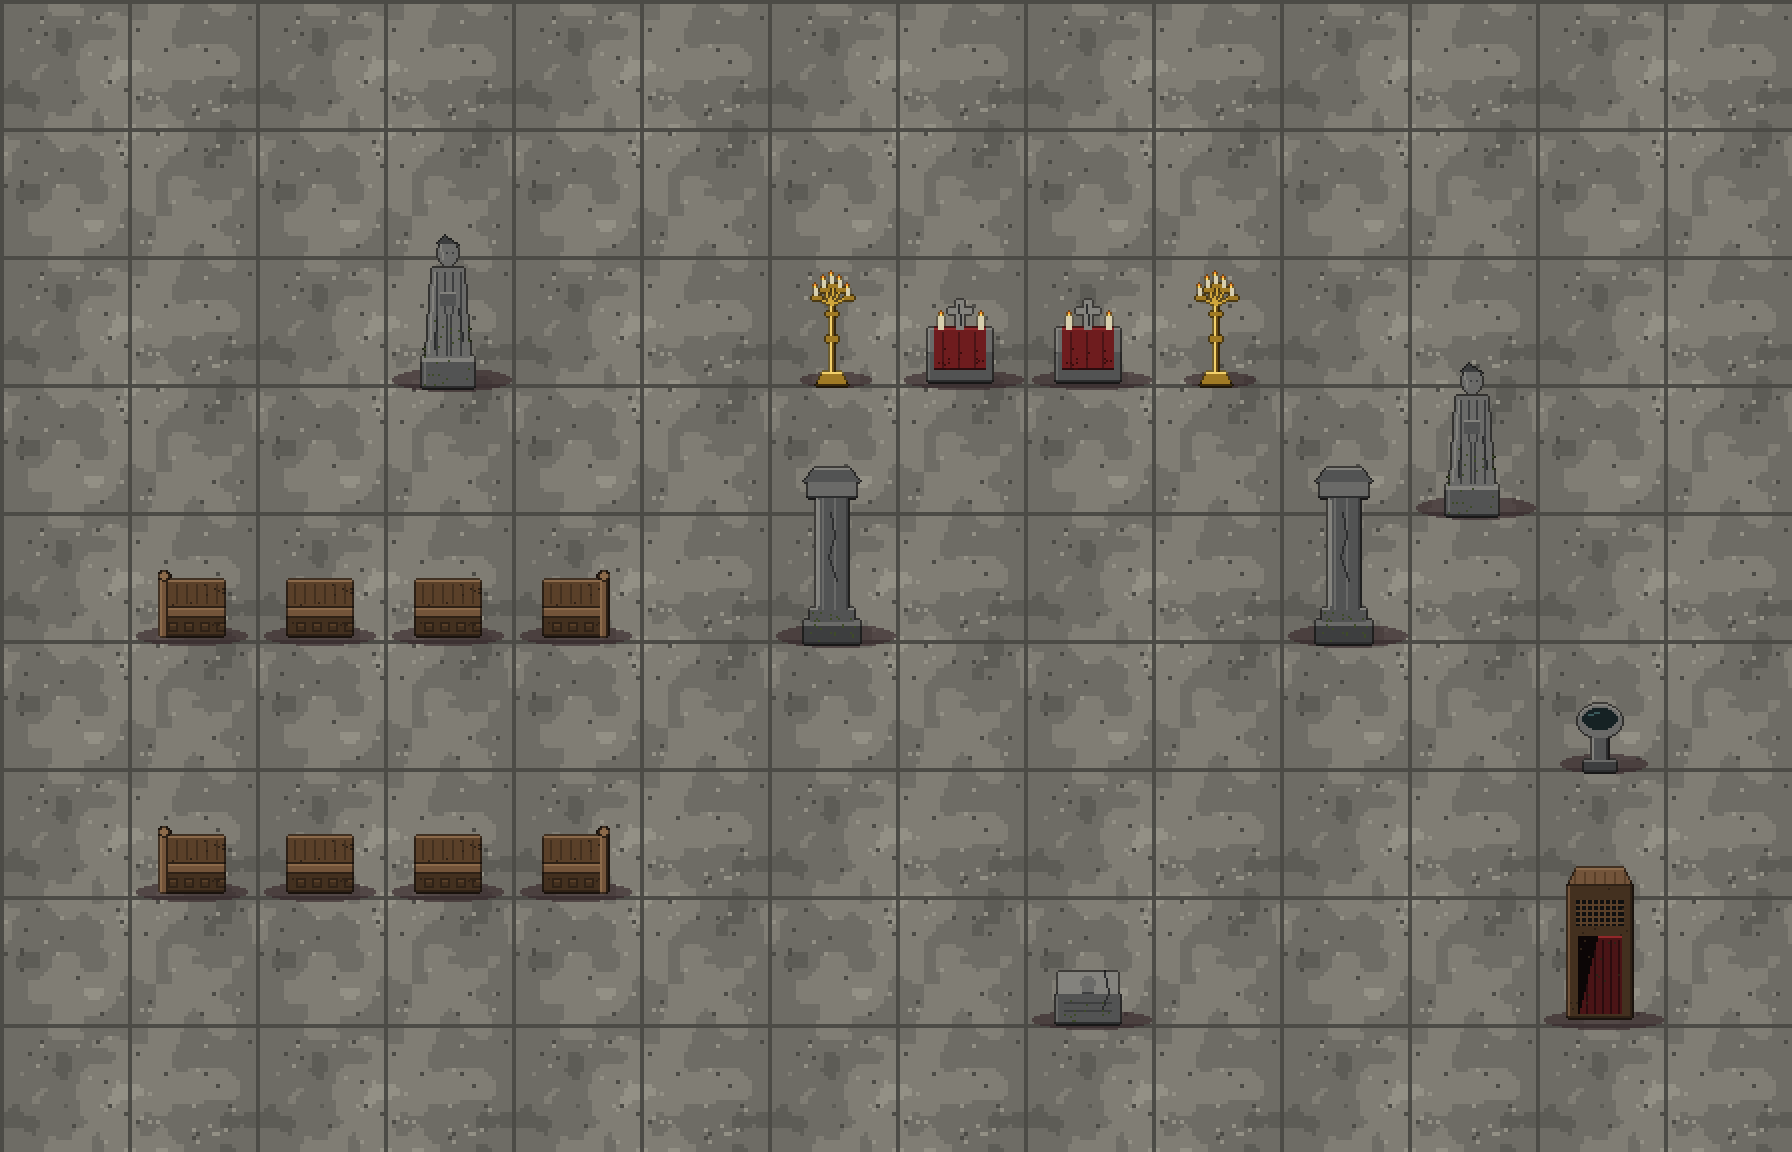
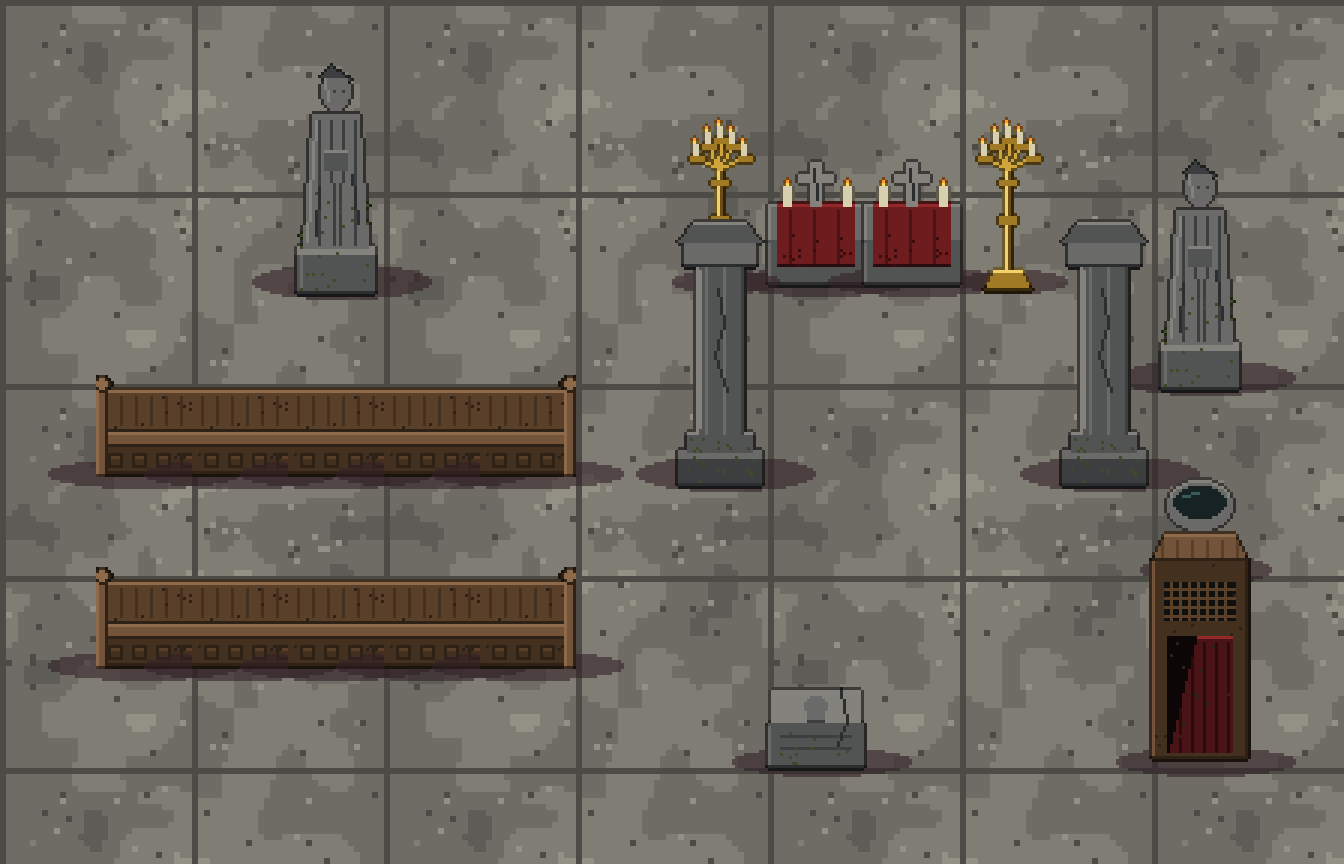
Pews join into one continuous bench; preview at the true tile scale
Claude-Session: https://claude.ai/code/session_01Jpd5tdDJTR7BVueAYV1KDM

diff --git a/ArtSource/world/props_cathedral.py b/ArtSource/world/props_cathedral.py
@@ -14,6 +14,22 @@ def grain(d, x0, y0, x1, y1, col, r, n=14):
     for _ in range(n): x = r.randint(x0, x1); y = r.randint(y0, y1); d.point((x, y), fill=col)
 
 # ---------------------------------------------------------------- pews: dark wood, a high back, a seat, a plinth; one pew spans three tiles, ends carry a carved post
+def _outline_pew(im, left, right):
+    """the selective outline, but NOT on the sides that join the next pew tile (so a row reads as one bench); no side padding there either."""
+    import numpy as np
+    a = np.array(im).astype(np.int32); H, W = a.shape[:2]; al = a[..., 3] > 0; o = a.copy()
+    dirs = [(0, -1), (0, 1)] + ([(-1, 0)] if left else []) + ([(1, 0)] if right else [])
+    for y in range(H):
+        for x in range(W):
+            if al[y, x]: continue
+            best = None
+            for dx, dy in dirs:
+                nx, ny = x + dx, y + dy
+                if 0 <= nx < W and 0 <= ny < H and al[ny, nx]:
+                    c = a[ny, nx]; lum = c[0] + c[1] + c[2]
+                    if best is None or lum < best[0]: best = (lum, c)
+            if best is not None: c = best[1]; o[y, x] = (int(c[0] * 0.42) + 6, int(c[1] * 0.42) + 5, int(c[2] * 0.42) + 4, 255)
+    return Image.fromarray(o.astype(np.uint8), 'RGBA')
 def _pew(seed, end):
     r = rng(seed); im = blank(32, 36); d = ImageDraw.Draw(im); W = WOOD
     d.rectangle([0, 4, 31, 17], fill=W[2]); d.line([(0, 4), (31, 4)], fill=W[4]); d.line([(0, 17), (31, 17)], fill=W[0])         # the back rest, seen from the front of the row
@@ -26,7 +42,10 @@ def _pew(seed, end):
         x = 0 if end == 'l' else 28
         d.rectangle([x, 0, x + 3, 31], fill=W[3]); d.line([(x, 0), (x, 31)], fill=W[4]); d.line([(x + 3, 2), (x + 3, 31)], fill=W[0])
         d.ellipse([x - 1, -1, x + 4, 4], fill=W[4], outline=W[0])
-    return X2(im, (16, 34), (28, 5, 0, -1))
+    pad_l = 1 if end == 'l' else 0; pad_r = 1 if end == 'r' else 0
+    big = blank(im.width + pad_l + pad_r, im.height + 2); big.alpha_composite(im, (pad_l, 1))
+    big = _outline_pew(big, end == 'l', end == 'r')
+    p = Prop(big, (16 + pad_l, 35), (32, 5, 0, -1), False, scale=2); return p
 def pew_l(seed): return _pew(seed, 'l')
 def pew_m(seed): return _pew(seed, None)
 def pew_r(seed): return _pew(seed, 'r')
@@ -122,31 +141,23 @@ NEW = {"pew_l": pew_l, "pew_m": pew_m, "pew_r": pew_r, "column": column, "altar"
 VARIANTS = {k: 1 for k in NEW}
 
 if __name__ == "__main__":
-    # preview: a slice of the nave on a stone floor with a character for scale (3x): a row of pews, two columns, the altar, candelabra, statue, font, confessional, tomb
+    # preview: a slice of the nave on a stone floor with a character for scale; a TILE IS 16 MAP PX (32 sprite px), drawn at 4x
     import ground, os, sys
     sys.path.insert(0, os.path.dirname(os.path.abspath(__file__)))
-    W_, H_ = 32 * 14, 32 * 9
+    T = 16; W_, H_ = T * 14, T * 9
     bg = blank(W_, H_); g = ground.GROUNDS["concrete"](3)
     for ty in range(0, H_, g.height):
         for tx in range(0, W_, g.width): bg.paste(g, (tx, ty))
+    big = bg.resize((W_ * 2, H_ * 2), Image.NEAREST)               # 1 map px = 2 sprite px
     items = []
-    def at(name, tx, ty): items.append((ty * 32 + 31, NEW[name](1000), tx * 32 + 16, ty * 32 + 32))
-    for i, nm in enumerate(['pew_l', 'pew_m', 'pew_m', 'pew_r']): at(nm, 1 + i, 6)
-    for i, nm in enumerate(['pew_l', 'pew_m', 'pew_m', 'pew_r']): at(nm, 1 + i, 4)
-    at('column', 6, 4); at('column', 10, 4); at('altar', 7, 2); at('altar', 8, 2); at('candelabra', 6, 2); at('candelabra', 9, 2); at('statue', 11, 3); at('font', 12, 5); at('confessional', 12, 7); at('tomb', 8, 7); at('statue', 3, 2)
-    def place(canvas, p, x, y):
-        s = p.scale
-        if p.shadow:
-            w, h, dx, dy = p.shadow; w, h, dx, dy = w * 1, h * 1, dx, dy
-            canvas.alpha_composite(shadow_ellipse(w, h), (int(x + dx - w / 2), int(y + dy - h / 2)))
-        im2 = p.im.resize((p.im.width // s * 1 if False else p.im.width, p.im.height), Image.NEAREST)
-        canvas.alpha_composite(p.im.resize((p.im.width // 2, p.im.height // 2), Image.NEAREST) if False else p.im, (int(x - p.pivot[0] / 2 * 1), int(y - p.pivot[1] / 2 * 1)))
-    # sprites are double density: draw each at half size in map pixels by scaling the whole canvas 2x afterwards instead
-    big = bg.resize((W_ * 2, H_ * 2), Image.NEAREST)
+    def at(name, tx, ty): items.append((ty * T + T - 1, NEW[name](1000), tx * T + T // 2, ty * T + T))
+    for r_ in (4, 6):
+        for i, nm in enumerate(['pew_l', 'pew_m', 'pew_m', 'pew_m', 'pew_r']): at(nm, 1 + i, r_)
+    at('column', 7, 4); at('column', 11, 4); at('altar', 8, 2); at('altar', 9, 2); at('candelabra', 7, 2); at('candelabra', 10, 2); at('statue', 12, 3); at('font', 12, 5); at('confessional', 12, 7); at('tomb', 8, 7); at('statue', 3, 2)
     for _, p, x, y in sorted(items, key=lambda t: t[0]):
         if p.shadow:
             w, h, dx, dy = p.shadow; w2, h2 = w * 2, h * 2
             big.alpha_composite(shadow_ellipse(w2, h2), (int(x * 2 + dx * 2 - w2 / 2), int(y * 2 + dy * 2 - h2 / 2)))
         big.alpha_composite(p.im, (int(x * 2 - p.pivot[0]), int(y * 2 - p.pivot[1])))
-    big = big.resize((big.width * 2, big.height * 2), Image.NEAREST)
+    big = big.resize((big.width * 3, big.height * 3), Image.NEAREST)
     big.convert('RGB').save('/tmp/cathedral_props_preview.png'); print(big.size)

diff --git a/ArtSource/WORK_LOG.md b/ArtSource/WORK_LOG.md
@@ -6823,3 +6823,4 @@ Yan: "inside a kind of gothic cathedral ... windows and doors ... blood draws mu
 
 ## Batch 9z - cathedral art, first set (2026-11-20)
 Yan: "we'll probably need new sprites or stuff for a cathedral, right now it's a warehouse with like 30 desks". `ArtSource/world/props_cathedral.py`: double-density props in the world's style (pew_l/pew_m/pew_r, column, altar, candelabra, statue, font, confessional, tomb); preview `maps/renders/cathedral_props_preview.png` (the preview's tile is drawn at a smaller scale than the game's, so the props look small next to the floor tile). NOT packed into the atlas and not wired (plan chars, atlas, `props.py` hook) until Yan approves. Still to draw: a gothic wall look (arched blind windows, buttresses), a tall arched stained window, a checkered stone floor (new GroundType), the exterior facade (gable, arched doors, rose window, slate roof). Pews are stubby.
+- (2026-11-20, later) Yan: the pews showed as separate blocks with gaps. Two causes: my preview spaced them 32 map px apart (a tile is 16 map px; the sprites are double density) and the usual selective outline drew a dark seam on every side. `props_cathedral.py` now outlines pews only top and bottom (plus the outer side of an end piece) and the preview uses a 16 px tile: a row of five is one continuous bench. `maps/renders/cathedral_props_preview.png` replaced.
